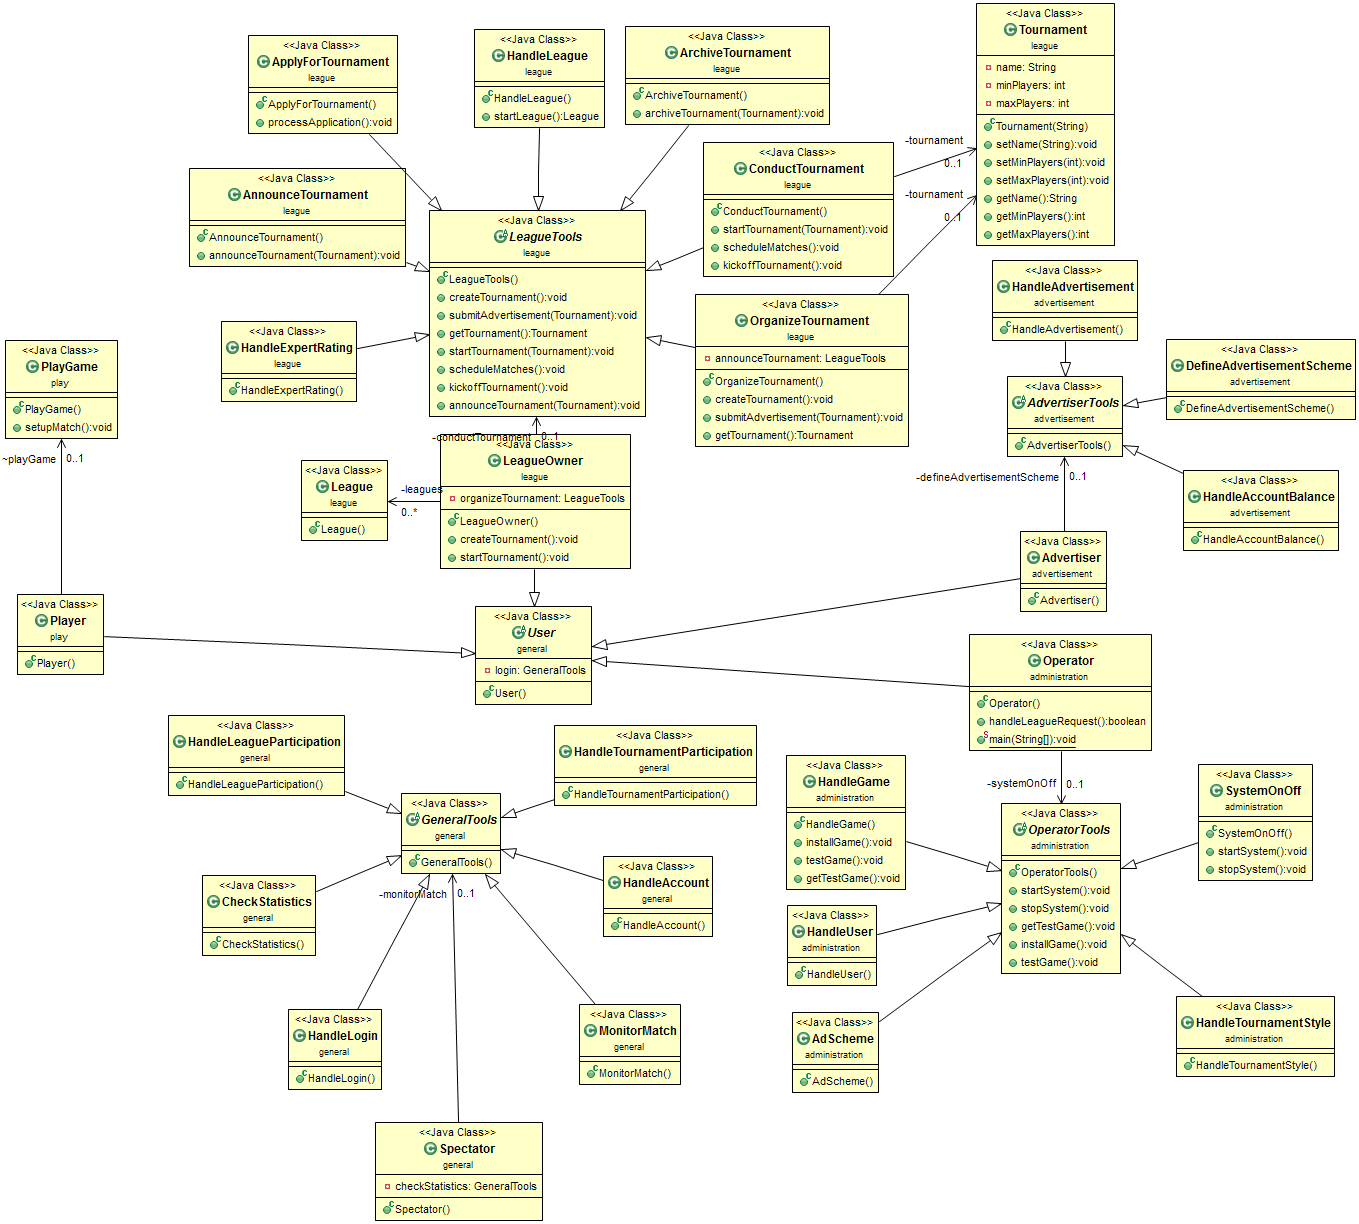
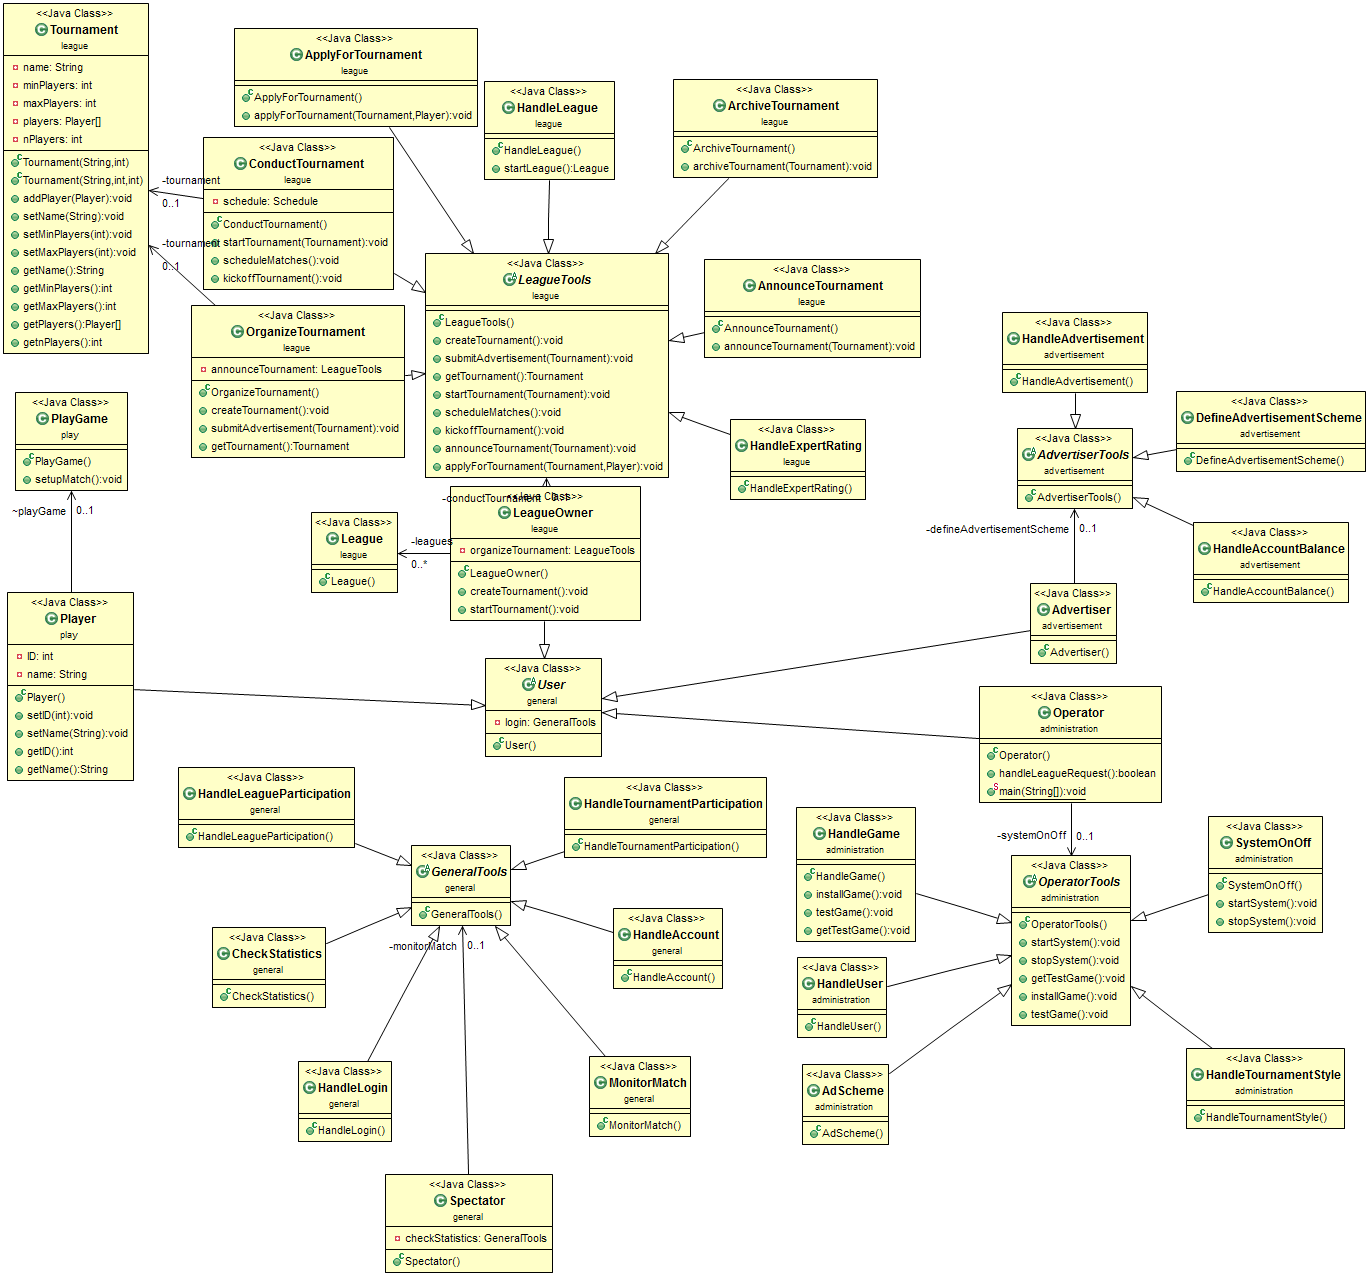
Addition of random schedule

diff --git a/src/league/Tournament.java b/src/league/Tournament.java
@@ -2,6 +2,11 @@ package league;
 
 import play.Player;
 
+/**
+ * 
+ * @author Axel Sigl
+ *
+ */
 public class Tournament {
 	private String name;
 	private int minPlayers;
@@ -10,9 +15,10 @@ public class Tournament {
 	private int nPlayers;
 	
 	/**
-	 * 
+	 * Creates a new Tournament object with the default amount of minPlayers.
 	 * @author Axel Sigl
 	 * @param name
+	 * @param maxPlayers
 	 */
 	public Tournament(String name, int maxPlayers){
 		this.name = name;
@@ -23,7 +29,7 @@ public class Tournament {
 	}
 	
 	/**
-	 * 
+	 * Creates a Tournament object with the given parameters.
 	 * @author Axel Sigl
 	 * @param name
 	 * @param maxPlayers
@@ -36,6 +42,11 @@ public class Tournament {
 		nPlayers = 0;
 	}
 	
+	/**
+	 * Adds a player to the tournament if the maximum is not reached.
+	 * @author Axel Sigl
+	 * @param player
+	 */
 	public void addPlayer(Player player){
 		if(nPlayers < maxPlayers){
 			players[nPlayers] = player;
@@ -47,7 +58,7 @@ public class Tournament {
 	}
 	
 	/**
-	 * 
+	 * Changes tournament name.
 	 * @author Axel Sigl
 	 * @param name
 	 */
@@ -56,7 +67,7 @@ public class Tournament {
 	}
 	
 	/**
-	 * 
+	 * Changes minimum number of players.
 	 * @author Axel Sigl
 	 * @param minPlayers
 	 */
@@ -65,7 +76,7 @@ public class Tournament {
 	}
 	
 	/**
-	 * 
+	 * Changes maximum number of players.
 	 * @author Axel Sigl
 	 * @param maxPlayers
 	 */
@@ -76,7 +87,7 @@ public class Tournament {
 	/**
 	 * 
 	 * @author Axel Sigl
-	 * @return
+	 * @return Name of the tournament.
 	 */
 	public String getName(){
 		return name;
@@ -85,7 +96,7 @@ public class Tournament {
 	/**
 	 * 
 	 * @author Axel Sigl
-	 * @return
+	 * @return Minimum number of players.
 	 */
 	public int getMinPlayers(){
 		return minPlayers;
@@ -94,9 +105,27 @@ public class Tournament {
 	/**
 	 * 
 	 * @author Axel Sigl
-	 * @return
+	 * @return Maximum number of players.
 	 */
 	public int getMaxPlayers(){
 		return maxPlayers;
+	}
+	
+	/**
+	 * 
+	 * @author Axel Sigl
+	 * @return All players in the tournament.
+	 */
+	public Player[] getPlayers(){
+		return players;
+	}
+	
+	/**
+	 * 
+	 * @author Axel Sigl
+	 * @return Number of players in the tournament.
+	 */
+	public int getnPlayers(){
+		return nPlayers;
 	}
 }

diff --git a/src/league/Schedule.java b/src/league/Schedule.java
@@ -1,0 +1,46 @@
+package league;
+
+import java.util.Random;
+import play.Player;
+
+/**
+ * 
+ * @author Axel Sigl
+ *
+ */
+public class Schedule {
+	private Player[] unScheduledPlayers;
+	private int nUnScheduledPlayers;
+	private Player[][] matches;
+	private int nMatches;
+
+	/**
+	 * Creates a random tournament schedule.
+	 * @Known_Problems schedule for uneven number of players?
+	 * @author Axel Sigl
+	 * @param tournament
+	 */
+	public void randomSchedule(Tournament tournament){
+		Random rand = new Random();
+		int randPlayer;
+		
+		unScheduledPlayers = tournament.getPlayers();
+		nUnScheduledPlayers = tournament.getnPlayers();
+		matches = new Player[tournament.getMaxPlayers()][2];
+		nMatches = 0;
+		
+		for(int i = 0; i < tournament.getnPlayers()/2; i++){
+			randPlayer = rand.nextInt((nUnScheduledPlayers - 0)) + 0;
+			matches[i][1] = unScheduledPlayers[randPlayer];
+			removeUnscheduledPlayer(randPlayer);
+			
+			randPlayer = rand.nextInt((nUnScheduledPlayers - 0)) + 0;
+			matches[i][2] = unScheduledPlayers[randPlayer];
+			removeUnscheduledPlayer(randPlayer);
+		}
+	}
+	
+	private void removeUnscheduledPlayer(int pos){
+		
+	}
+}

diff --git a/src/play/Player.java b/src/play/Player.java
@@ -12,18 +12,38 @@ public class Player extends User{
 	private String name;
 	private PlayGame playGame;
 	
+	/**
+	 * Changes player ID.
+	 * @author Axel Sigl
+	 * @param ID
+	 */
 	public void setID(int ID){
 		this.ID = ID;
 	}
 	
+	/**
+	 * Changes player name.
+	 * @author Axel Sigl
+	 * @param name
+	 */
 	public void setName(String name){
 		this.name = name;
 	}
 	
+	/**
+	 * 
+	 * @author Axel Sigl
+	 * @return Id of the player.
+	 */
 	public int getID(){
 		return ID;
 	}
 	
+	/**
+	 * 
+	 * @author Axel Sigl
+	 * @return Name of the player.
+	 */
 	public String getName(){
 		return name;
 	}

diff --git a/src/league/LeagueTools.java b/src/league/LeagueTools.java
@@ -1,5 +1,6 @@
 package league;
 
+import play.Player;
 import general.UnimplementedToolException;
 
 /**
@@ -35,5 +36,9 @@ public abstract class LeagueTools {
 	
 	public void announceTournament(Tournament tournament) throws UnimplementedToolException{
 		throw new UnimplementedToolException("announceTournament");
+	}
+
+	public void applyForTournament(Tournament tournament, Player player) throws UnimplementedToolException{
+		throw new UnimplementedToolException("applyForTournament");
 	}
 }

diff --git a/src/league/AnnounceTournament.java b/src/league/AnnounceTournament.java
@@ -10,7 +10,7 @@ public class AnnounceTournament extends LeagueTools{
 	@Override
 	public void announceTournament(Tournament tournament){
 		System.out.println("Announcing tournament: " + tournament.getName()
-				+ "Minimum players: " + tournament.getMinPlayers()
-				+ "Maximum players: " + tournament.getMaxPlayers());
+				+ " Minimum players: " + tournament.getMinPlayers()
+				+ " Maximum players: " + tournament.getMaxPlayers());
 	}
 }

diff --git a/src/league/ConductTournament.java b/src/league/ConductTournament.java
@@ -7,15 +7,17 @@ package league;
  */
 public class ConductTournament extends LeagueTools{
 	private Tournament tournament;
+	private Schedule schedule;
 	
 	@Override
 	public void startTournament(Tournament tournament){
 		this.tournament = tournament;
+		schedule = new Schedule();
 	}
 	
 	@Override
 	public void scheduleMatches(){
-		
+		schedule.randomSchedule(tournament);
 	}
 	
 	@Override

diff --git a/src/league/ApplyForTournament.java b/src/league/ApplyForTournament.java
@@ -1,12 +1,16 @@
 package league;
 
+import play.Player;
+
 /**
  * 
  * @author Axel Sigl
  *
  */
 public class ApplyForTournament extends LeagueTools{
-	public void processApplication(){
+	
+	@Override
+	public void applyForTournament(Tournament tournament, Player player){
 		
 	}
 }

diff --git a/src/league/LeagueOwner.java b/src/league/LeagueOwner.java
@@ -20,6 +20,11 @@ public class LeagueOwner extends User{
 		//testing stuff
 		createTournament();
 		startTournament();
+		try {
+			conductTournament.scheduleMatches();
+		} catch (UnimplementedToolException e) {
+			e.printStackTrace();
+		}
 	}
 	
 	public void createTournament(){
